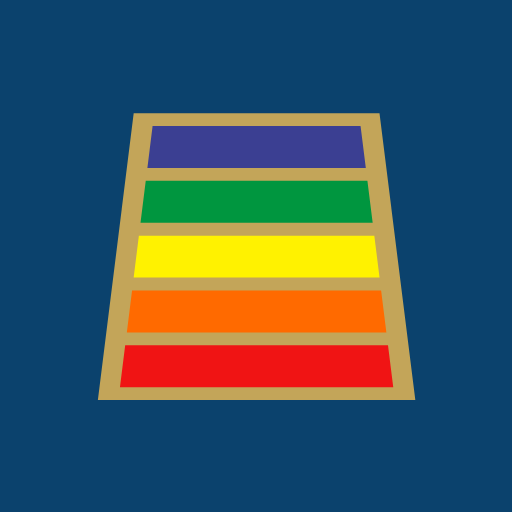
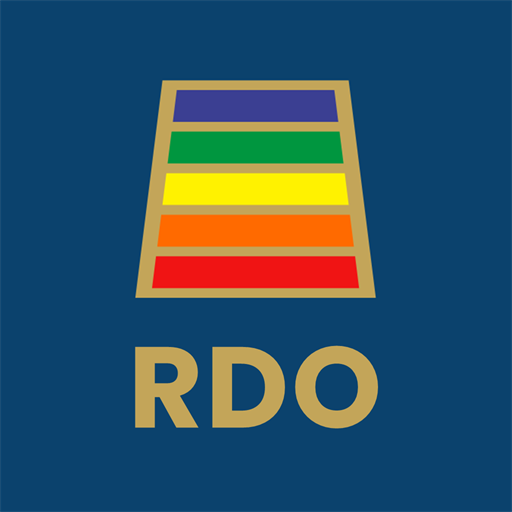
Icone: simbolo Arco-Iris-Mar com RDO (v1.6.1)

diff --git a/js/views/ajustes.js b/js/views/ajustes.js
@@ -1,4 +1,4 @@
-// Ajustes: dados da obra, listas editáveis, backup, armazenamento e modo demonstração.
+// Ajustes: dados da obra, listas editáveis, backup, armazenamento e modo demonstração.
 import { h, campo, texto, modal, confirmar, perguntar, oferecerArquivo, carregando, toast } from '../ui.js';
 import { getConfig, salvarConfig, LISTAS, novoItem, areasDe } from '../config.js';
 import * as db from '../db.js';
@@ -6,7 +6,7 @@ import { gerarBackup, marcarBackup, lerBackup, aplicarBackup } from '../backup.j
 import { autosaver, fmtDataHora, diasEntre, hoje } from '../util.js';
 import { ir } from '../app.js';
 
-export const VERSAO_APP = '1.6.0';
+export const VERSAO_APP = '1.6.1';
 
 export async function viewAjustes() {
   const cfg = await getConfig();

diff --git a/service-worker.js b/service-worker.js
@@ -1,6 +1,6 @@
-// Service worker: cache-first de todos os assets. Ao alterar qualquer arquivo do app,
+// Service worker: cache-first de todos os assets. Ao alterar qualquer arquivo do app,
 // incremente VERSAO para que o iPhone baixe a nova versão na próxima abertura com internet.
-const VERSAO = 'rdo-rov-v1.6.0';
+const VERSAO = 'rdo-rov-v1.6.1';
 const ASSETS = [
   './',
   './index.html',
